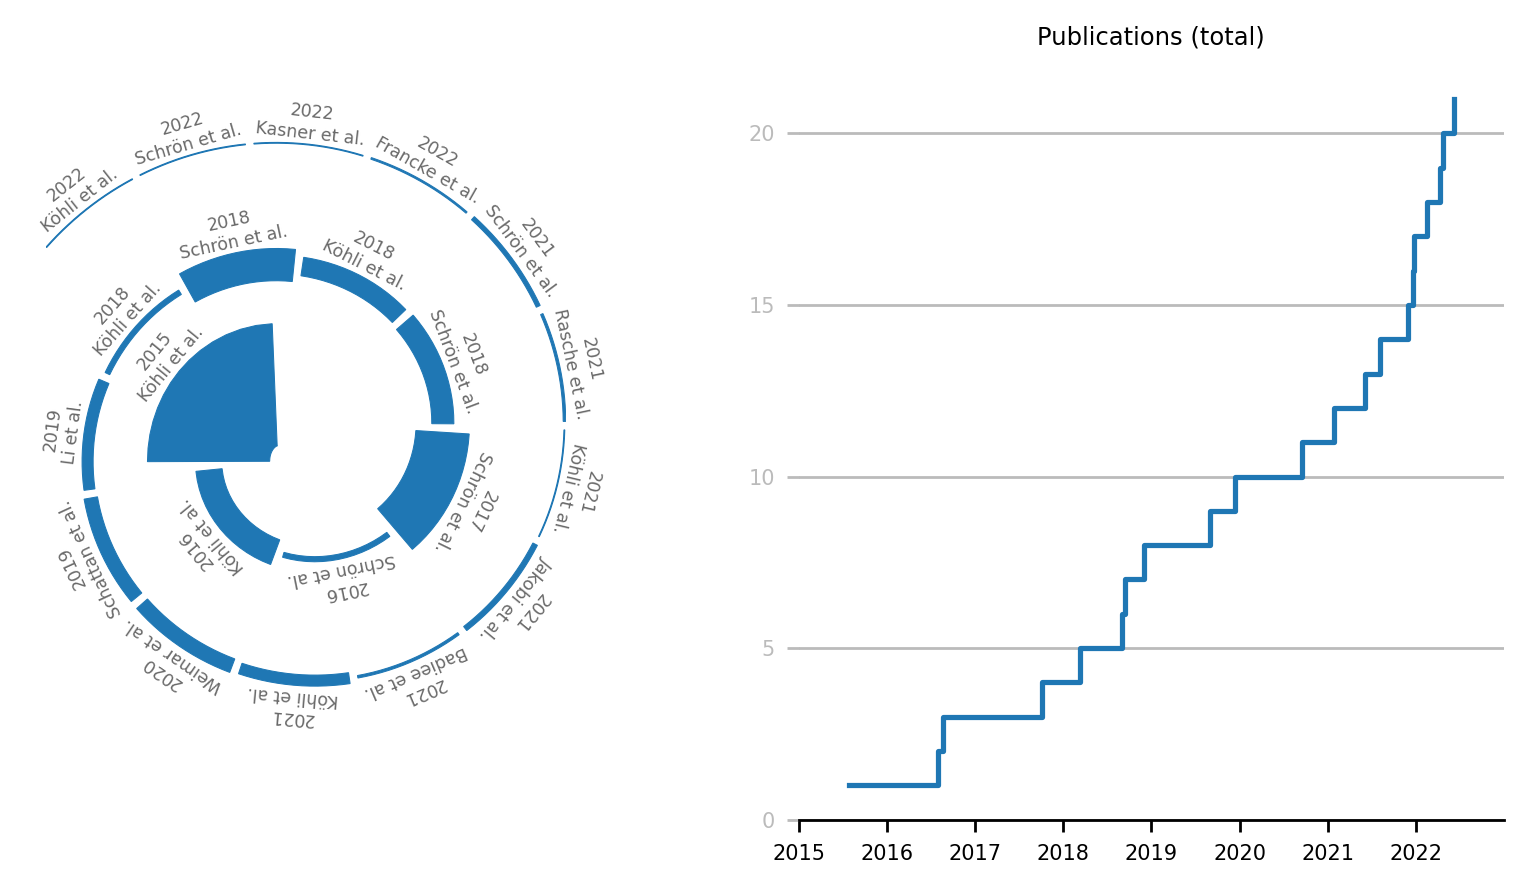
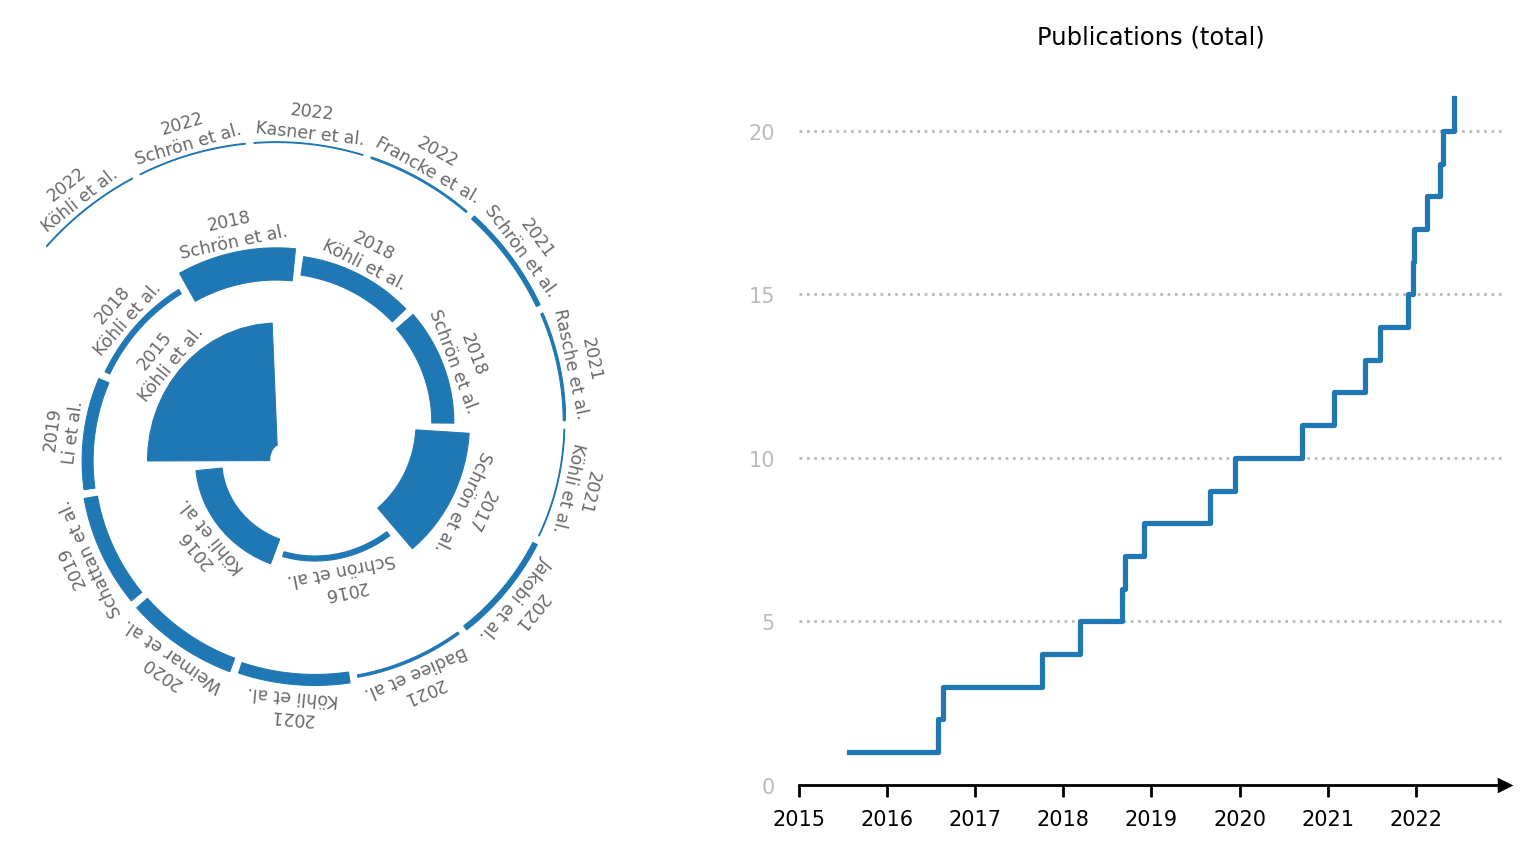
Updated figure

diff --git a/doc/scripts/make_uranos_pubs.py b/doc/scripts/make_uranos_pubs.py
@@ -4,6 +4,7 @@
 
 # %%
 from publib import PubList
+from datetime import date
 
 # %%
 P = PubList()
@@ -15,6 +16,10 @@ content = """
 
 Citations: **{cites:.0f}** (based on [CrossRef.org](https://www.crossref.org/))
 
+*Figure. Left: Publications and their total citations (bar width). Right: Cumulative publications over the years. (Spiral package credits: [G. Skok, 2022](https://doi.org/10.3390/app12136609))*
+![Publications and citations per year](pubplot.png)
+
+## Details 
 {publist}
 """.format(
     num     = P.total_pubs,
@@ -28,53 +33,43 @@ with open('../PUBLICATIONS.md', 'w', encoding="utf-8") as fh:
     fh.write(content)
     
 # %%
-from pandas import DataFrame
-history = DataFrame([dict(
-    year = today.year,
-    pubs = P.total_pubs)])
-
-# %%
-plotdata = P.data[['year','authors','cites']]
+from pandas import DataFrame, to_datetime
+plotdata = P.data[['year','date','authors','cites']]
 plotdata['firstauthor'] = [x[0] for x in plotdata.authors]
 plotdata['label'] = ['{1}\n{0} et al.'.format(x[0], y) for x,y in zip(plotdata.authors, plotdata.year)]
 plotdata = plotdata[::-1]
+plotdata['t'] = to_datetime(plotdata.date)
+plotdata['num'] = 1
+plotdata['num'] = np.cumsum(plotdata['num'])
 plotdata
 
 # %%
-from spiral_strip_library_v04 import *
-duration = [ 7,  5,  9, 23,  6,  6,  4]
-deaths = [ 85., 28., 22.5, 9.846, 7., 3.95, 3. ]
-
-color1='#e82b33'
-color2='#31aae0'
-segment_color=[]
-for il in range(len(duration)):
-	segment_color.append(color1)
-	segment_color.append(color2)
-
-segment_color='C0'
-
-width = []
-segment_length = 150
-
-draw_spiral_strip(image_filename="example06.pdf", r0=0, space=0, fi0_deg=0,
-    number_of_segments = len(plotdata), width=plotdata.cites.values+1, segment_length=segment_length,
-    maximum_length_of_subsegment=10, segment_color = segment_color,
-    values=None, colormap_name=None,
-    labels1_text=plotdata.label.values, labels1_fontsize=5, labels1_color="dimgray", labels1_pad=35,
-    antialiased = True, gap_between_consecutive_segments = 15,
-    dpi=300)
-
-# %%
 from corny.figures import Figure
-c_pubs = 'C0'
-c_cite = '#000000'
-with Figure(size=(8,3), save='out/pubs_per_year.png') as ax:
-    ax.bar(history[:-1].year, history[:-1].pubs, color=c_pubs, alpha=0.5)
-    ax.bar(history[-1:].year, history[-1:].pubs, color=c_pubs, alpha=0.5, hatch='//', edgecolor='white')
-    #ax.scatter(today.year, spy_now.pubs.values[-1] + PP.total_pubs, color='#BBBBBB')
-    ax.set_ylabel('Publications')
-    ax.spines['left'].set_color(c_pubs)
-    ax.spines['top'].set_color('w')
-    ax.yaxis.label.set_color(c_pubs)
-    ax.tick_params(axis='y', colors=c_pubs)
+from spiral_strip_library_v04 import *
+segment_color = 'C0'
+segment_length = 130
+
+with Figure(layout=(1,2), size=(8,4), save='../pubplot.png') as axes:
+    ax = axes[0]
+    draw_spiral_strip(image_filename="example06.pdf", r0=0, space=0, fi0_deg=110,
+        number_of_segments = len(plotdata), width=plotdata.cites.values+1, segment_length=segment_length,
+        maximum_length_of_subsegment=10, segment_color = segment_color,
+        values=None, colormap_name=None,
+        labels1_text=plotdata.label.values, labels1_fontsize=5, labels1_color="dimgray", labels1_pad=25,
+        antialiased = True, gap_between_consecutive_segments = 10,
+        ax=ax)
+    ax.autoscale(enable=True, axis='x', tight=True)
+    ax = axes[1]
+    ax.set_title('Publications (total)', fontsize=7)
+    ax.plot(plotdata.t, plotdata.num, drawstyle='steps-post')
+    ax.set_xlim(date(2015,1,1), date(2022,12,31))
+    ax.set_yticks(np.arange(0,len(plotdata),5))
+    ax.xaxis.set_tick_params(labelsize=6)
+    ax.yaxis.set_tick_params(labelsize=6)
+    ax.grid(color='#BBBBBB', ls=':', axis='y', alpha=1)
+    ax.spines.top.set(visible=False)
+    ax.spines.left.set(visible=False)
+    ax.spines.right.set(visible=False)
+    ax.tick_params(colors='#BBBBBB', which='both', axis='y', tick1On=False)
+    ax.spines["bottom"].set_position(("data", 0))
+    ax.plot(1, 0, ">k", transform=ax.get_yaxis_transform(), markersize=3, clip_on=False)
